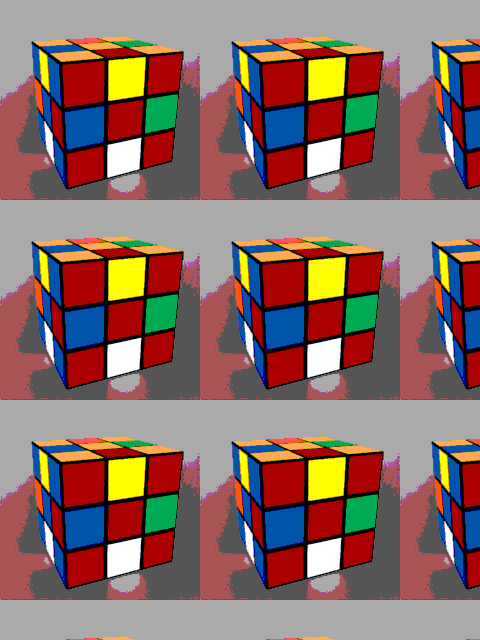
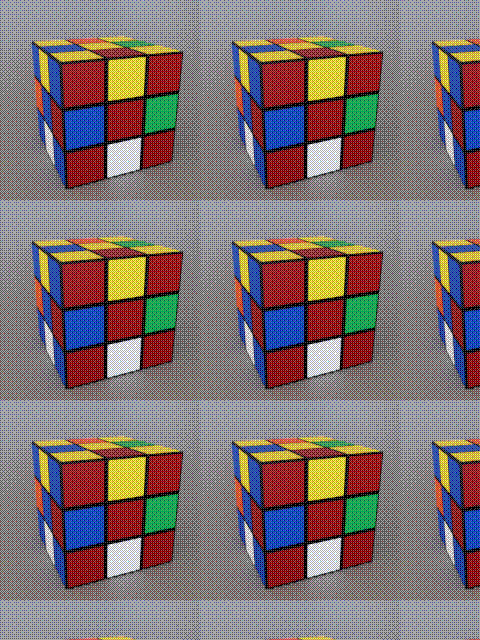
Add dithering method

diff --git a/src/process/Img2Img.cpp b/src/process/Img2Img.cpp
@@ -1,4 +1,25 @@
+#include <cmath>
+
 #include "Img2Img.h"
+
+const unsigned int Img2Img::Threshold[] = {
+	  0, 192,  48, 240,  12, 204,  60, 252,   3, 195,  51, 243,  15, 207,  63, 255,
+	128,  64, 176, 112, 140,  76, 188, 124, 131,  67, 179, 115, 143,  79, 191, 127,
+	 32, 224,  16, 208,  44, 236,  28, 220,  35, 227,  19, 211,  47, 239,  31, 223,
+	160,  96, 144,  80, 172, 108, 156,  92, 163,  99, 147,  83, 175, 111, 159,  95,
+	  8, 200,  56, 248,   4, 196,  52, 244,  11, 203,  59, 251,   7, 199,  55, 247,
+	136,  72, 184, 120, 132,  68, 180, 116, 139,  75, 187, 123, 135,  71, 183, 119,
+	 40, 232,  24, 216,  36, 228,  20, 212,  43, 235,  27, 219,  39, 231,  23, 215,
+	168, 104, 152,  88, 164, 100, 148,  84, 171, 107, 155,  91, 167, 103, 151,  87,
+	  2, 194,  50, 242,  14, 206,  62, 254,   1, 193,  49, 241,  13, 205,  61, 253,
+	130,  66, 178, 114, 142,  78, 190, 126, 129,  65, 177, 113, 141,  77, 189, 125,
+	 34, 226,  18, 210,  46, 238,  30, 222,  33, 225,  17, 209,  45, 237,  29, 221,
+	162,  98, 146,  82, 174, 110, 158,  94, 161,  97, 145,  81, 173, 109, 157,  93,
+	 10, 202,  58, 250,   6, 198,  54, 246,   9, 201,  57, 249,   5, 197,  53, 245,
+	138,  74, 186, 122, 134,  70, 182, 118, 137,  73, 185, 121, 133,  69, 181, 117,
+	 42, 234,  26, 218,  38, 230,  22, 214,  41, 233,  25, 217,  37, 229,  21, 213,
+	170, 106, 154,  90, 166, 102, 150,  86, 169, 105, 153,  89, 165, 101, 149,  85
+};
 
 #include "../image/Image.h"
 
@@ -33,7 +54,11 @@ void Img2Img::Run(const std::string baseImg, const std::string hiddenImg, const 
 
 				if (dithered) {
 					// do nothing for now
-					output.SetData(baseIndex + i, hidden.GetData(hiddenIndex + i));
+					uint8_t hiddenData = Img2Img::Dither(hidden.GetData(hiddenIndex + i), x, y, (int)bitMask, 255, (int)bitMask);
+					uint8_t lsbData = Img2Img::Dither(hidden.GetData(hiddenIndex + i), x, y, (int)bitMask, 255, 255);
+
+					output.SetData(baseIndex + i, baseData | hiddenData);
+					lsb.SetData(baseIndex + i, lsbData);
 				}
 				else {
 					uint8_t hiddenData = (hidden.GetData(hiddenIndex + i) >> shiftRight) & bitMask;
@@ -52,4 +77,22 @@ void Img2Img::Run(const std::string baseImg, const std::string hiddenImg, const 
 
 size_t Img2Img::GetIndex(const int x, const int y, const int w, const int channels) {
 	return (size_t)((x + y * w) * channels);
+}
+
+uint8_t Img2Img::Dither(const uint8_t value, const int x, const int y, const int factor, const int fromMax, const int toMax) {
+	float threshold = (float)Img2Img::Threshold[(x % 16) + (y % 16) * 16] / 256.f;
+	float octet = 1.f / (float)factor;
+
+	float v = (float)value / (float)fromMax;
+	v = v + octet * (threshold - 0.5f);
+	v = std::roundf(v * (float)factor) / (float)factor;
+
+	// clamp
+
+	v = v > 1.f ? 1.f : v;
+	v = v < 0.f ? 0.f : v;
+
+	v *= (float)toMax;
+
+	return (uint8_t)std::roundf(v);
 }

diff --git a/src/process/Img2Img.h b/src/process/Img2Img.h
@@ -18,6 +18,10 @@ public:
 
 private:
 	static size_t GetIndex(const int x, const int y, const int w, const int channels);
+
+	static uint8_t Dither(const uint8_t value, const int x, const int y, const int factor, const int fromMax, const int toMax);
+	
+	static const unsigned int Threshold[];
 };
 
 #endif // !IMG2IMG_H
